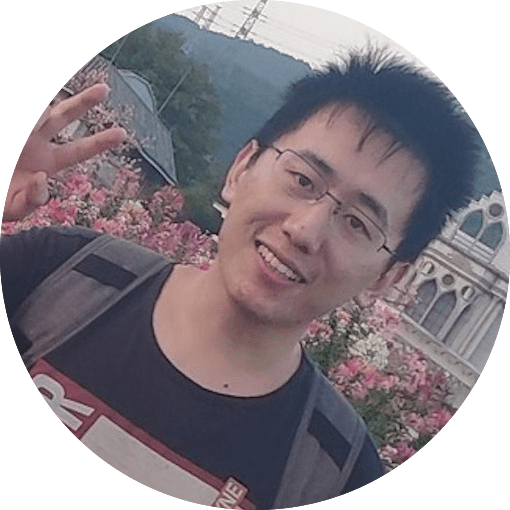
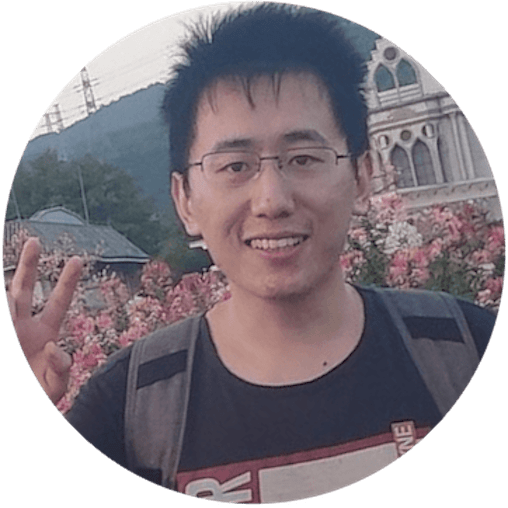
update people page

diff --git a/people.html b/people.html
@@ -384,7 +384,7 @@ justify-content:center}
 <div class="column1" style="padding-left:0">
 	<div class='card-horizontal' style="width:100%; align-items: center; padding: 0 0 0 0">
 		<div>
-        	<img src='uploads/people/dan_1.png' class='iconDetails' alt="Card image cap" style="width:85%; float:left;">
+        	<img src='uploads/people/dan_1.png' class='iconDetails' alt="Card image cap" style="width:83%; float:left;">
         </div> 
         <div style='margin-left:1%;'></div>
         <div class='container3' style="width:90%; font-size:90%">
@@ -442,7 +442,7 @@ justify-content:center}
     <div class="column1" style="padding-left:0">
     <div class='card-horizontal' style="width:95%; align-items: center; padding: 0 0 0 0">
         <div>
-            <img src='uploads/people/jiaying.png' class='iconDetails' alt="Card image cap" style="width:82%; float:left">
+            <img src='uploads/people/jiaying.png' class='iconDetails' alt="Card image cap" style="width:80%; float:left">
         </div>  
         <div style='margin-left:1%;'></div>
         <div class='container3' style="width:100%">
@@ -459,7 +459,7 @@ justify-content:center}
    <div class="column1" style="padding-left:0">
    <div class='card-horizontal' style="width:95%; align-items: center; padding: 0 0 0 0">
         <div>
-            <img src='uploads/people/lianxu.png' class='iconDetails' alt="Card image cap" style="width:82%; float:left">
+            <img src='uploads/people/lianxu.png' class='iconDetails' alt="Card image cap" style="width:80%; float:left">
         </div>  
         <div style='margin-left:1%;'></div>
         <div class='container3' style="width:100%">
@@ -577,7 +577,7 @@ justify-content:center}
     <div class="column1" style="padding-left:0">
     <div class='card-horizontal' style="width:95%; align-items: center; padding: 0 0 0 0">
         <div>
-            <img src='uploads/people/fating_1.png' class='iconDetails' alt="Card image cap" style="width:82%; float:left">
+            <img src='uploads/people/fating_1.png' class='iconDetails' alt="Card image cap" style="width:80%; float:left">
         </div>  
         <div style='margin-left:1%;'></div>
         <div class='container3' style="width:100%">
@@ -594,7 +594,7 @@ justify-content:center}
    <div class="column1" style="padding-left:0">
    <div class='card-horizontal' style="width:95%; align-items: center; padding: 0 0 0 0">
         <div>
-            <img src='uploads/people/zhenxing.png' class='iconDetails' alt="Card image cap" style="width:82%; float:left">
+            <img src='uploads/people/zhenxing.png' class='iconDetails' alt="Card image cap" style="width:80%; float:left">
         </div>  
         <div style='margin-left:1%;'></div>
         <div class='container3' style="width:100%">
@@ -614,7 +614,7 @@ justify-content:center}
     <div class="column1" style="padding-left:0">
    <div class='card-horizontal' style="width:95%; align-items: center; padding: 0 0 0 0">
 	        <div>
-	            <img src='uploads/people/yangcao.png' class='iconDetails' alt="Card image cap" style="width:82%; float:left">
+	            <img src='uploads/people/yangcao.png' class='iconDetails' alt="Card image cap" style="width:80%; float:left">
 	        </div>  
 	        <div style='margin-left:1%;'></div>
 	        <div class='container3' style="width:100%">
@@ -631,7 +631,7 @@ justify-content:center}
    <div class="column1" style="padding-left:0">
     <div class='card-horizontal' style="width:95%; align-items: center; padding: 0 0 0 0">
         <div>
-            <img src='uploads/people/yuxin.png' class='iconDetails' alt="Card image cap" style="width:82%; float:left">
+            <img src='uploads/people/yuxin.png' class='iconDetails' alt="Card image cap" style="width:80%; float:left">
         </div>  
         <div style='margin-left:1%;'></div>
         <div class='container3' style="width:100%">
@@ -651,7 +651,7 @@ justify-content:center}
 	<div class="column1" style="padding-left:0">
     <div class='card-horizontal' style="width:95%; align-items: center; padding: 0 0 0 0">
         <div>
-            <img src='uploads/people/qichengwang.png' class='iconDetails' alt="Card image cap" style="width:82%; float:left">
+            <img src='uploads/people/qichengwang.png' class='iconDetails' alt="Card image cap" style="width:80%; float:left">
         </div>  
         <div style='margin-left:1%;'></div>
         <div class='container3' style="width:100%">
@@ -668,7 +668,7 @@ justify-content:center}
     <div class="column1" style="padding-left:0">
     <div class='card-horizontal' style="width:95%; align-items: center; padding: 0 0 0 0">
         <div>
-            <img src='uploads/people/qiwang.png' class='iconDetails' alt="Card image cap" style="width:82%; float:left">
+            <img src='uploads/people/qiwang.png' class='iconDetails' alt="Card image cap" style="width:80%; float:left">
         </div>  
         <div style='margin-left:1%;'></div>
         <div class='container3' style="width:100%">
@@ -688,7 +688,7 @@ justify-content:center}
 	<div class="column1" style="padding-left:0">
     <div class='card-horizontal' style="width:95%; align-items: center; padding: 0 0 0 0">
         <div>
-            <img src='uploads/people/shuling.png' class='iconDetails' alt="Card image cap" style="width:82%; float:left">
+            <img src='uploads/people/shuling.png' class='iconDetails' alt="Card image cap" style="width:80%; float:left">
         </div>  
         <div style='margin-left:1%;'></div>
         <div class='container3' style="width:100%">
@@ -705,7 +705,7 @@ justify-content:center}
     <div class="column1" style="padding-left:0">
     <div class='card-horizontal' style="width:95%; align-items: center; padding: 0 0 0 0">
         <div>
-            <img src='uploads/people/Yingji.png' class='iconDetails' alt="Card image cap" style="width:82%; float:left">
+            <img src='uploads/people/Yingji.png' class='iconDetails' alt="Card image cap" style="width:80%; float:left">
         </div>  
         <div style='margin-left:1%;'></div>
         <div class='container3' style="width:100%">
@@ -725,7 +725,7 @@ justify-content:center}
 	<div class="column1" style="padding-left:0">
     <div class='card-horizontal' style="width:95%; align-items: center; padding: 0 0 0 0">
         <div>
-            <img src='uploads/people/Jaehyeok.png' class='iconDetails' alt="Card image cap" style="width:82%; float:left">
+            <img src='uploads/people/Jaehyeok.png' class='iconDetails' alt="Card image cap" style="width:80%; float:left">
         </div>  
         <div style='margin-left:1%;'></div>
         <div class='container3' style="width:100%">
@@ -742,7 +742,7 @@ justify-content:center}
 	<div class="column1" style="padding-left:0">
     <div class='card-horizontal' style="width:95%; align-items: center; padding: 0 0 0 0">
         <div>
-            <img src='uploads/people/xunzhi.png' class='iconDetails' alt="Card image cap" style="width:82%; float:left">
+            <img src='uploads/people/xunzhi.png' class='iconDetails' alt="Card image cap" style="width:80%; float:left">
         </div>  
         <div style='margin-left:1%;'></div>
         <div class='container3' style="width:100%">
@@ -762,7 +762,7 @@ justify-content:center}
 	<div class="column1" style="padding-left:0">
    <div class='card-horizontal' style="width:95%; align-items: center; padding: 0 0 0 0">
 	        <div>
-	            <img src='uploads/people/shaocong_1.png' class='iconDetails' alt="Card image cap" style="width:82%; float:left">
+	            <img src='uploads/people/shaocong_1.png' class='iconDetails' alt="Card image cap" style="width:80%; float:left">
 	        </div>  
 	        <div style='margin-left:1%;'></div>
 	        <div class='container3' style="width:100%">
@@ -778,7 +778,7 @@ justify-content:center}
     <div class="column1" style="padding-left:0">
     <div class='card-horizontal' style="width:95%; align-items: center; padding: 0 0 0 0">
         <div>
-            <img src='uploads/people/zedong.png' class='iconDetails' alt="Card image cap" style="width:82%; float:left">
+            <img src='uploads/people/zedong.png' class='iconDetails' alt="Card image cap" style="width:80%; float:left">
         </div>  
         <div style='margin-left:1%;'></div>
         <div class='container3' style="width:100%">
@@ -799,7 +799,7 @@ justify-content:center}
    <div class="column1" style="padding-left:0">
    <div class='card-horizontal' style="width:95%; align-items: center; padding: 0 0 0 0">
 	        <div>
-	            <img src='uploads/people/jinfeng.png' class='iconDetails' alt="Card image cap" style="width:82%; float:left">
+	            <img src='uploads/people/jinfeng.png' class='iconDetails' alt="Card image cap" style="width:80%; float:left">
 	        </div>  
 	        <div style='margin-left:1%;'></div>
 	        <div class='container3' style="width:100%">
@@ -816,7 +816,7 @@ justify-content:center}
    <div class="column1" style="padding-left:0">
    <div class='card-horizontal' style="width:95%; align-items: center; padding: 0 0 0 0">
 	        <div>
-	            <img src='uploads/people/chiyan.png' class='iconDetails' alt="Card image cap" style="width:82%; float:left">
+	            <img src='uploads/people/chiyan.png' class='iconDetails' alt="Card image cap" style="width:80%; float:left">
 	        </div>  
 	        <div style='margin-left:1%;'></div>
 	        <div class='container3' style="width:100%">
@@ -838,7 +838,7 @@ justify-content:center}
    <div class="column1" style="padding-left:0">
    <div class='card-horizontal' style="width:95%; align-items: center; padding: 0 0 0 0">
 	        <div>
-	            <img src='uploads/people/yucheng_1.png' class='iconDetails' alt="Card image cap" style="width:82%; float:left">
+	            <img src='uploads/people/yucheng_1.png' class='iconDetails' alt="Card image cap" style="width:80%; float:left">
 	        </div>  
 	        <div style='margin-left:1%;'></div>
 	        <div class='container3' style="width:100%">
@@ -855,7 +855,7 @@ justify-content:center}
    <div class="column1" style="padding-left:0">
    <div class='card-horizontal' style="width:95%; align-items: center; padding: 0 0 0 0">
 	        <div>
-	            <img src='uploads/people/zipeng.png' class='iconDetails' alt="Card image cap" style="width:82%; float:left">
+	            <img src='uploads/people/zipeng.png' class='iconDetails' alt="Card image cap" style="width:80%; float:left">
 	        </div>  
 	        <div style='margin-left:1%;'></div>
 	        <div class='container3' style="width:100%">
@@ -877,7 +877,7 @@ justify-content:center}
     <div class="column1" style="padding-left:0">
     <div class='card-horizontal' style="width:95%; align-items: center; padding: 0 0 0 0">
         <div>
-            <img src='uploads/people/Naman.png' class='iconDetails' alt="Card image cap" style="width:82%; float:left">
+            <img src='uploads/people/Naman.png' class='iconDetails' alt="Card image cap" style="width:80%; float:left">
         </div>  
         <div style='margin-left:1%;'></div>
         <div class='container3' style="width:100%">
@@ -893,7 +893,7 @@ justify-content:center}
   <div class="column1" style="padding-left:0">
     <div class='card-horizontal' style="width:95%; align-items: center; padding: 0 0 0 0">
         <div>
-            <img src='uploads/people/Zichen.png' class='iconDetails' alt="Card image cap" style="width:82%; float:left">
+            <img src='uploads/people/Zichen.png' class='iconDetails' alt="Card image cap" style="width:80%; float:left">
         </div>  
         <div style='margin-left:1%;'></div>
         <div class='container3' style="width:100%">
